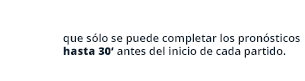
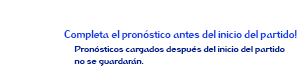
changes in images and texts

Changed region(s): [[0.2066, 0.3704, 1.0, 0.716], [0.2361, 0.716, 0.4721, 0.8148]]

diff --git a/application/views/front/bet_by_date.php b/application/views/front/bet_by_date.php
@@ -50,7 +50,7 @@
 			$match_completed = true;
 		}
 		$no_complete = 0;
-		$no_complete = minDiff($match['date_played'],$today) < 30 ? true : false;
+		$no_complete = minDiff($match['date_played'],$today) < 0 ? true : false;
 		$match_ended = false;
 		if(($match['result'] != -2) && $no_complete)
 		{
@@ -235,37 +235,7 @@
             </div>
 			
         </div>
-        <?
-        if($section == "bet_completed")
-		{
-			?><div class="clearfix"></div>
-            <a href="<?= $link_url?>pronosticos" class="btn btn-primary btn-lg btn-block"><?= lang("editar")?></a><?	
-		}
-		else
-		{
-			?>
-            <div class="clearfix"></div>
-            <button type="button" class="btn btn-primary btn-lg btn-block" id="submit-btn"><?= lang("Guardar")?></button><?
-		}
-		?>
-        </form>
-        <div class="modal fade" id="missing-matches-modal" tabindex="-1" role="dialog" aria-labelledby="myModalLabel" aria-hidden="true">
-            <div class="modal-dialog">
-                <div class="modal-content">
-                  <div class="modal-header">
-                    <button type="button" class="close" data-dismiss="modal" aria-hidden="true">&times;</button>
-                    <h4 class="modal-title" id="myModalLabel">&iexcl;<?= lang("Faltan estos resultados")?>!</h4>
-                  </div>
-                  <div class="modal-body" id="missing-matches"></div>
-				<div class="alert alert-info"><?= lang("30-min-prog")?></div>	
-
-                  <div class="modal-footer">
-                  	<button type="button" class="btn btn-primary" data-dismiss="modal" id="complete-later">Ok</button>
-                    <button type="button" class="btn btn-default "  data-dismiss="modal"><?= lang("Completar ahora")?></button>
-                  </div>
-                </div><!-- /.modal-content -->
-            </div><!-- /.modal-dialog -->
-        </div><!-- /.modal -->        
+        </form>        
     </div>
 </div>
 <? include(dirname(__FILE__)."/common/footer.php")?>

diff --git a/application/controllers/front_user.php b/application/controllers/front_user.php
@@ -12,7 +12,7 @@ class Front_user extends Front_init
 		$this->redirect_login();
 		$out['valid'] = false;
 		$this->load->model("admin/match_model","match_model");
-		if(!(int)$match_id || !$this->match_model->get((int)$match_id) || (minDiff($this->match_model->date_played,$this->data['today']) < 30) || $this->match_model->no_complete() || ($match_code != get_match_code($this->match_model->get_id(), $this->match_model->no_complete())))
+		if(!(int)$match_id || !$this->match_model->get((int)$match_id) || (minDiff($this->match_model->date_played,$this->data['today']) < 0) || $this->match_model->no_complete() || ($match_code != get_match_code($this->match_model->get_id(), $this->match_model->no_complete())))
 		{
 			echo json_encode($out);
 			return;	

diff --git a/application/config/words.php b/application/config/words.php
@@ -1,10 +1,10 @@
 <?
 if ( ! defined('BASEPATH')) exit('No direct script access allowed');
 
-$words['Pronosticos']['AR'] = "Pronosticos";
-$words['Pronosticos']['MX'] = "Pronosticos";
-$words['Pronosticos']['PR'] = "Previsões";
-$words['Pronosticos']['US'] = "Predictions";
+$words['Pronosticos']['AR'] = "PRONÓSTICOS";
+$words['Pronosticos']['MX'] = "PRONÓSTICOS";
+$words['Pronosticos']['PR'] = "PREVISÕES";
+$words['Pronosticos']['US'] = "PREDICTIONS";
 
 $words['Posiciones']['AR'] = "Posiciones";
 $words['Posiciones']['MX'] = "Posiciones";

diff --git a/application/controllers/home.php b/application/controllers/home.php
@@ -228,6 +228,7 @@ class Home extends Front_init
 		}
 		$this->data['section'] = 'bet';
 		$phases = array();
+		/*
 		if($this->company_model->qualys)
 		{
 			$phases[] = "qualys";	
@@ -236,6 +237,7 @@ class Home extends Front_init
 		{
 			$phases[] = "starter";	
 		}
+		*/
 		$phases[] = "initial";
 		if(!$phase)
 		{

diff --git a/application/views/front/common/finals_col.php b/application/views/front/common/finals_col.php
@@ -40,7 +40,7 @@ else
 				$match_completed = true;
 			}
 			$no_complete = 0;
-			$no_complete = minDiff($match['date_played'],$today) < 30 ? true : false;
+			$no_complete = minDiff($match['date_played'],$today) < 0 ? true : false;
 			$match_ended = false;
 			if(($match['result'] != -2) && $no_complete)
 			{

diff --git a/application/views/front/common/footer.php b/application/views/front/common/footer.php
@@ -9,7 +9,6 @@
 				}?>
                 <small><?= lang('support-email')?></small>
                 </div>
-				<div class="pull-right"><a href="http://www.bamboodev.team">bamboodev.team</a></div>
 			</div>
 		</div>
 	</div>
